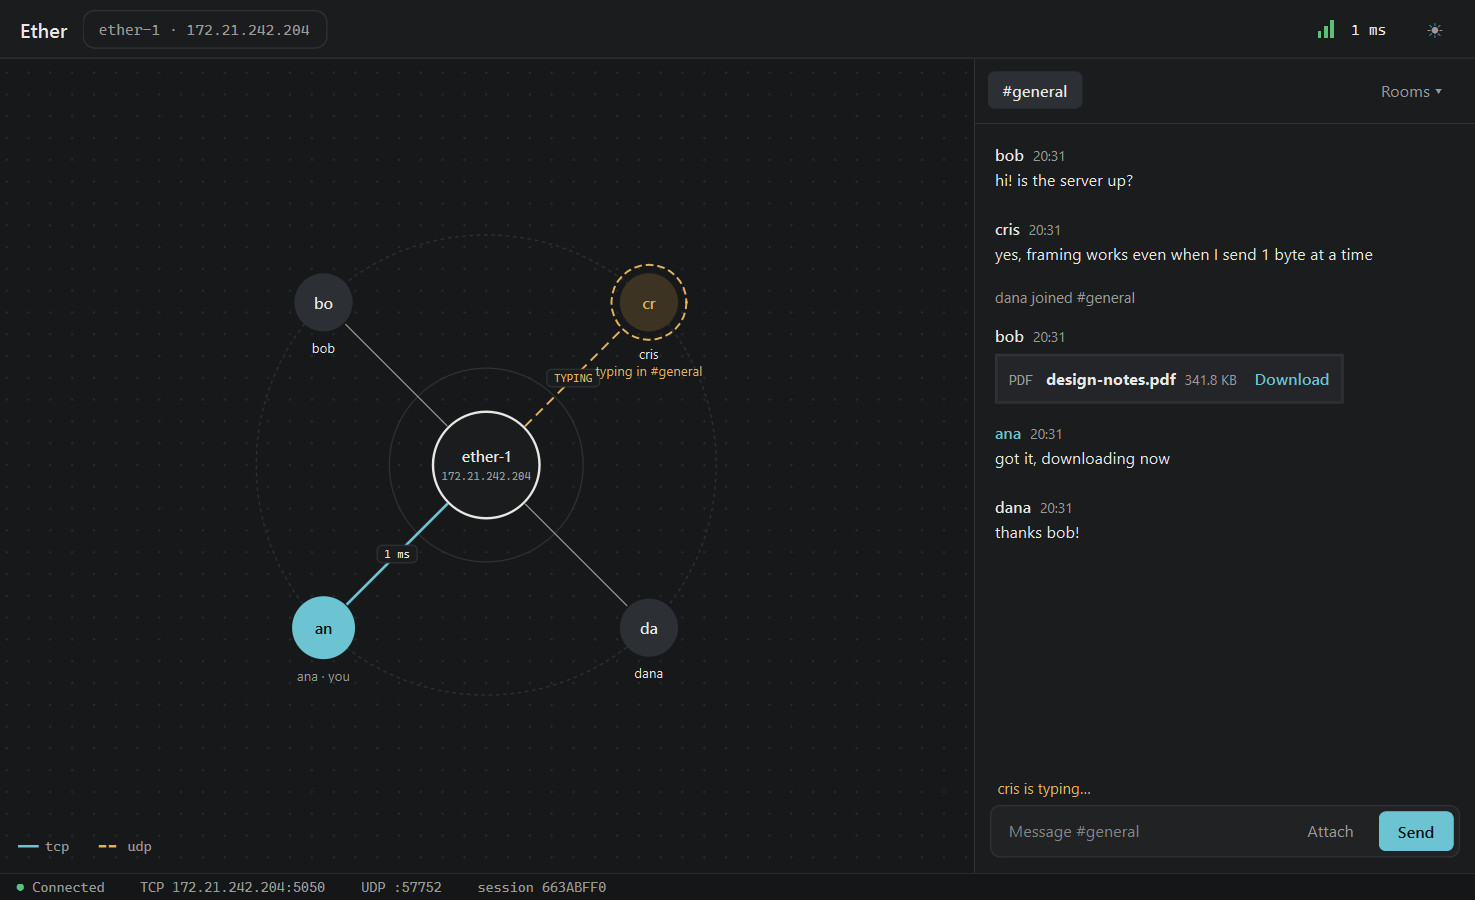
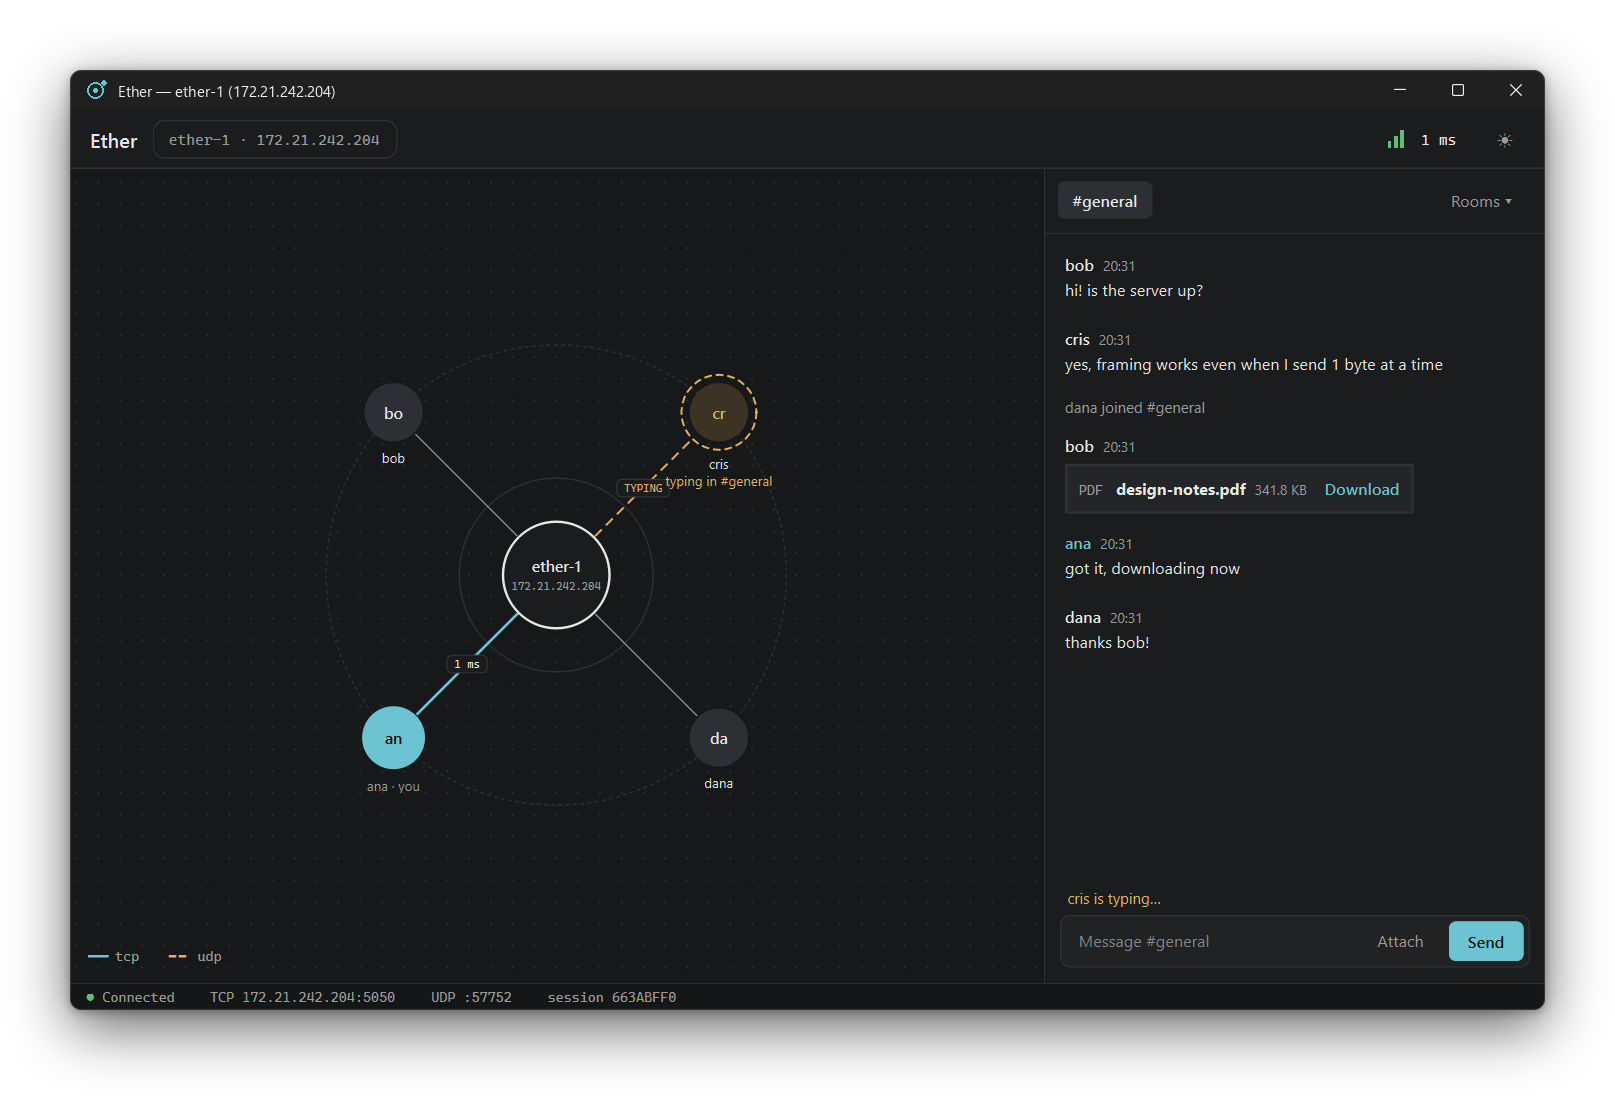
README: framed window screenshots, drop the connect dialog image
- docs/main-light.png, docs/main-dark.png: Windows 11-style title bar,
  rounded corners and drop shadow on a transparent background
- remove docs/discovery.png and its README section

diff --git a/README.md b/README.md
@@ -46,10 +46,6 @@ python -m ether_core.cli 192.168.1.40 --nick bob
 - **Discovery finds nothing?** Give the server IP directly (CLI argument, or the manual field in the GUI dialog).
 - **CLI commands:** `/join N`, `/leave N`, `/up PATH`, `/down FILE_ID DEST`, `/quit`. Any other text is sent to the current room.
 
-<img src="docs/discovery.png" alt="Connect dialog listing the ether-1 server found by UDP broadcast" width="380">
-
-*The GUI's connect dialog: servers answering the UDP broadcast appear live, with their online count.*
-
 ---
 
 ## Architecture
